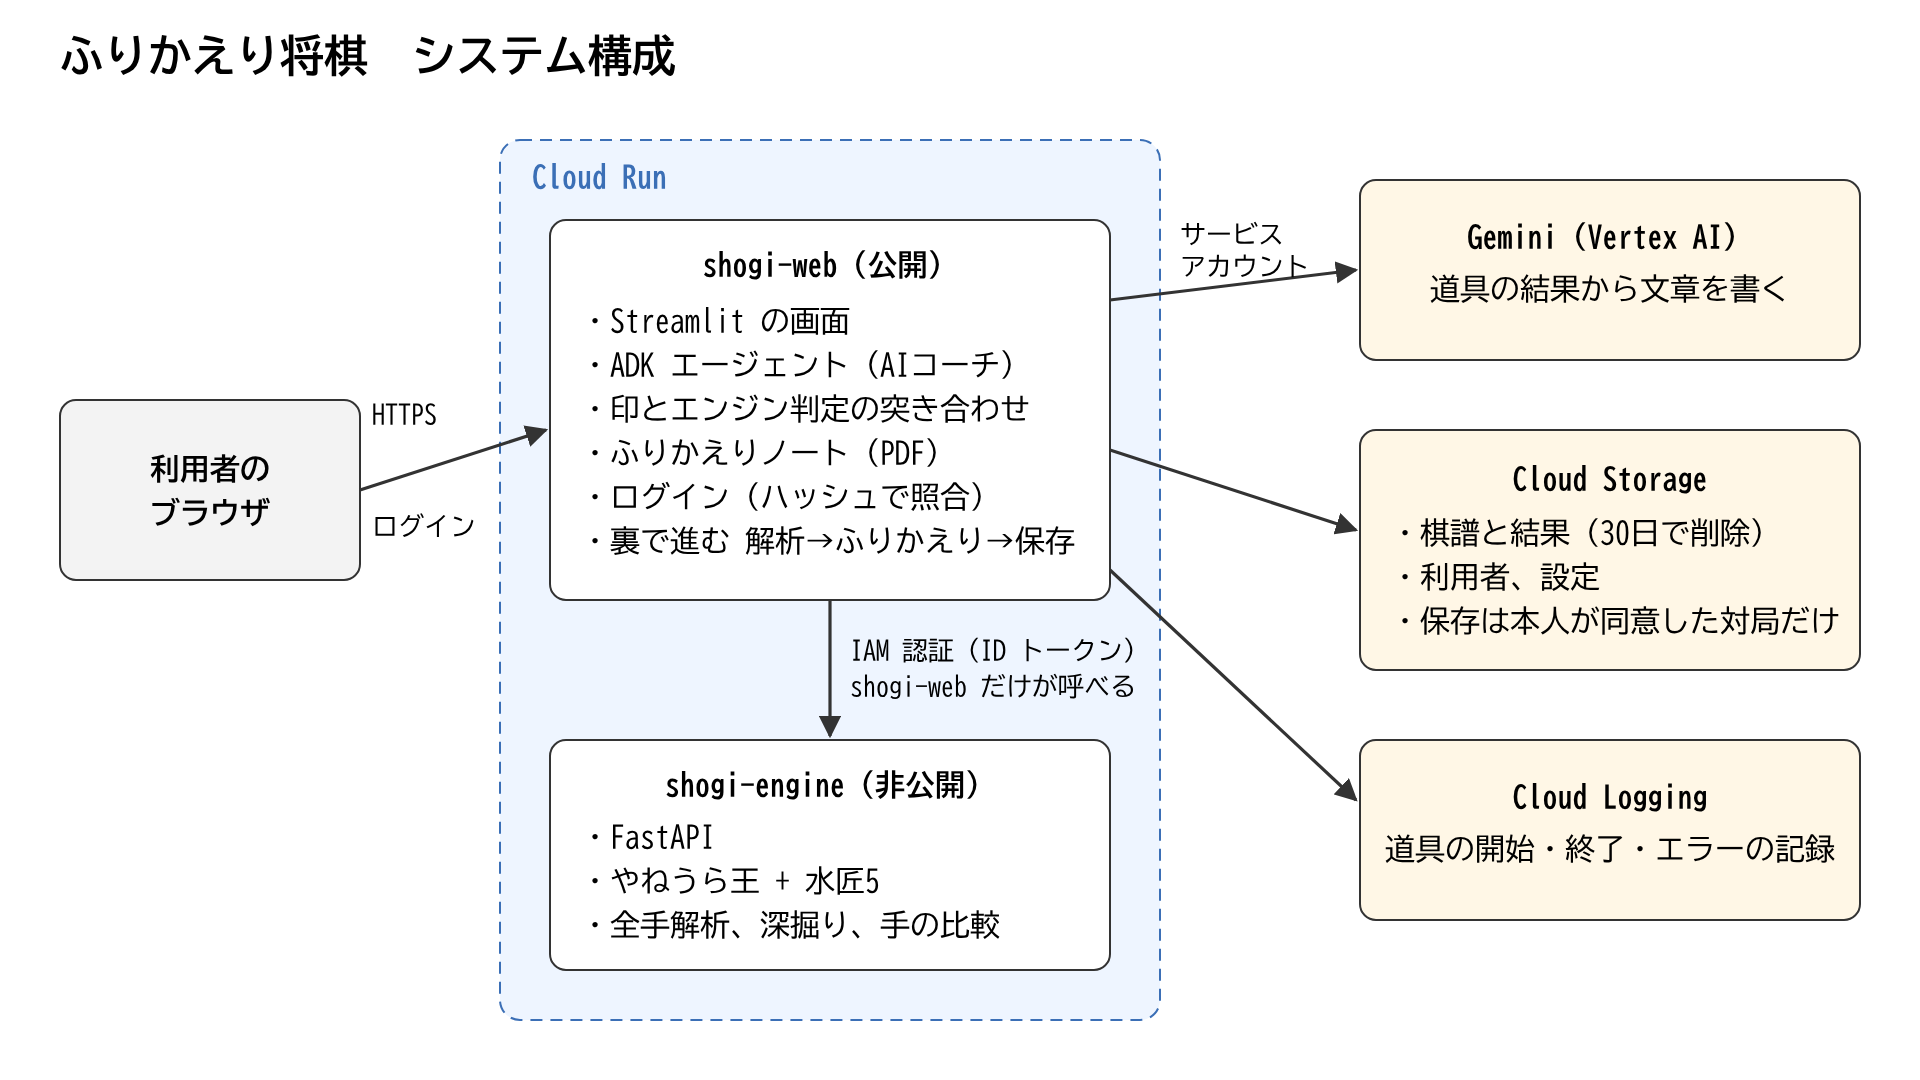
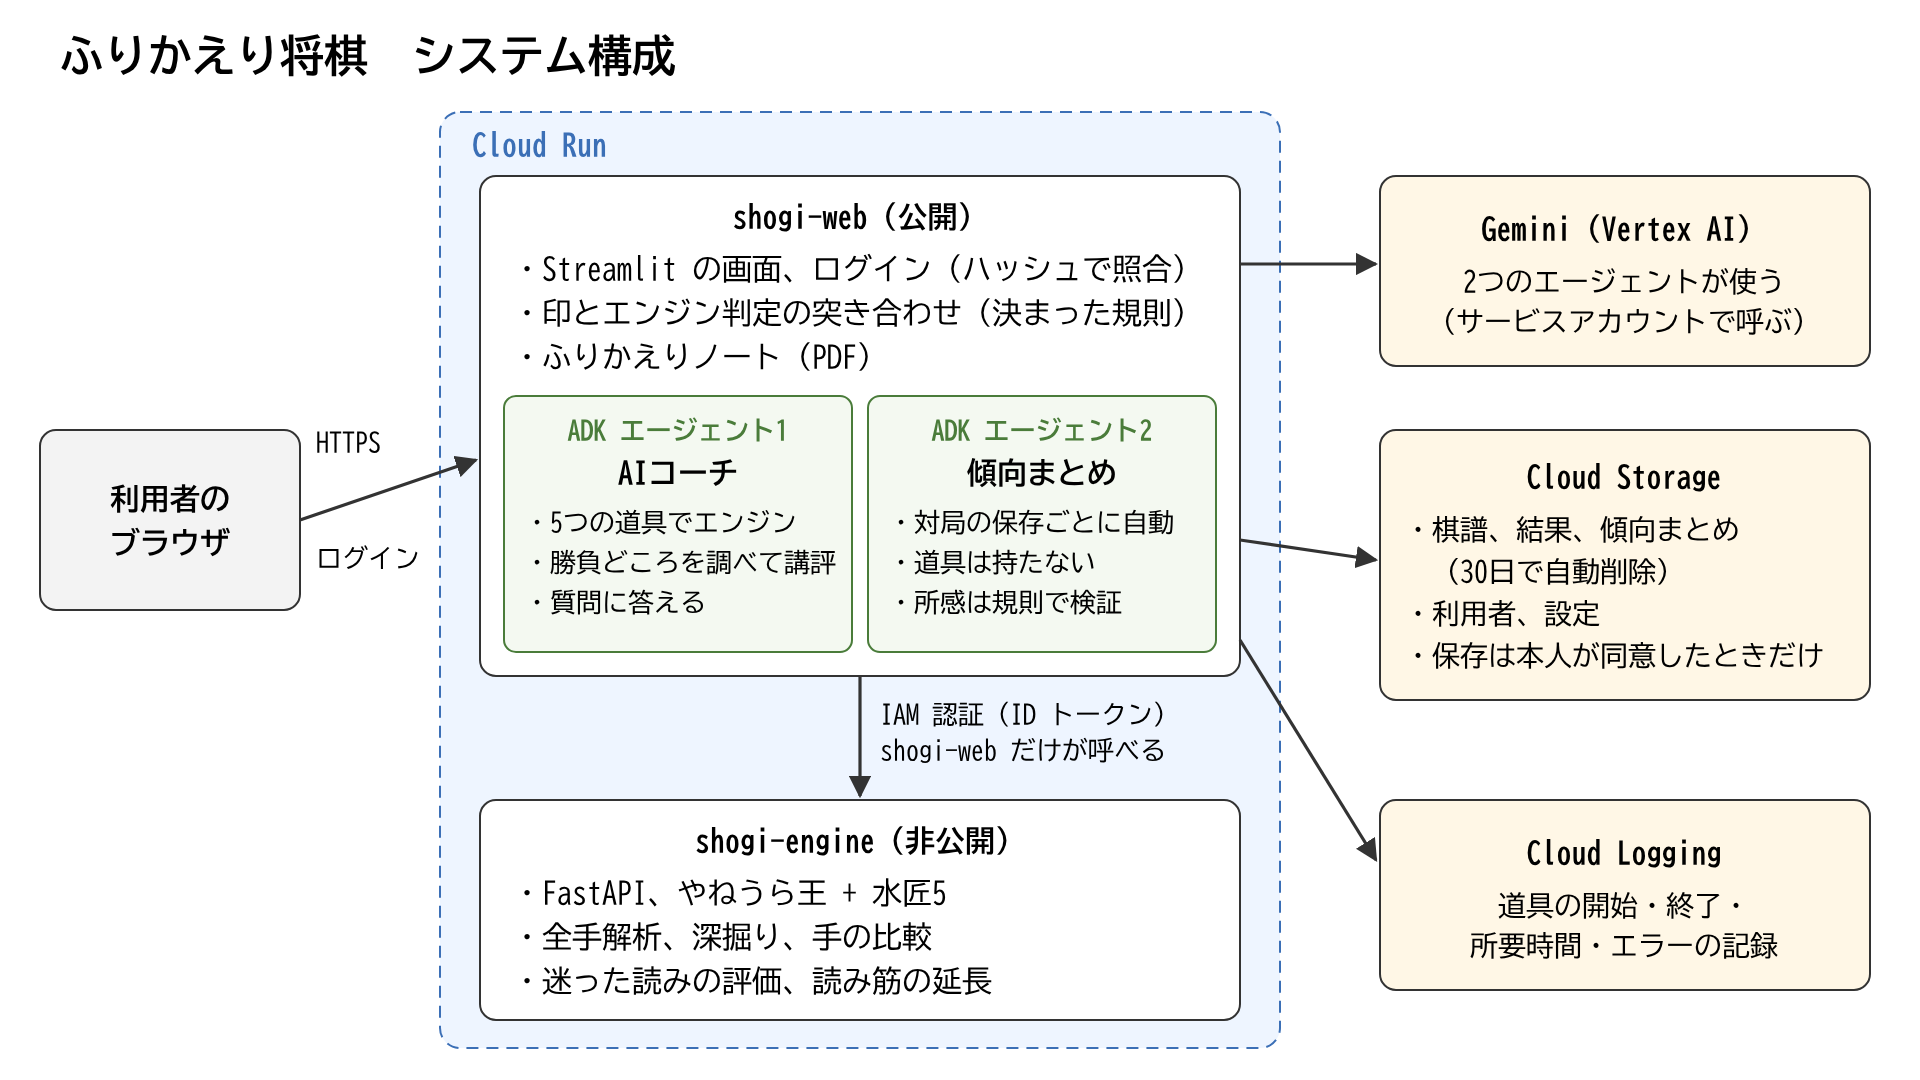
構成図と説明を、2つのエージェント（AIコーチと傾向まとめ）を含む今の構成に合わせる
傾向まとめのエージェント（保存のたびに自動、道具なし、所感は規則で検証）と、
エンジン側の迷った読みの評価・読み筋の延長を構成図に加えた。
アーキテクチャ説明（ダッシュボード用）も同じ内容に書き直した（793字）。

Claude-Session: https://claude.ai/code/session_01D4hAtyMCHpaFTxLnjaUy4s

diff --git a/docs/submission/ダッシュボード入力内容.md b/docs/submission/ダッシュボード入力内容.md
@@ -85,24 +85,25 @@
 ```
 **構成**
 
-- **Cloud Run「shogi-web」（公開）**: 画面（Streamlit）とAIコーチ（Agent Development Kit）を動かします。GeminiはVertex AIをサービスアカウントで呼ぶので、APIキーを持ちません
-- **Cloud Run「shogi-engine」（非公開）**: やねうら王＋水匠5をFastAPIで提供します。IAM認証が必須で、shogi-webのサービスアカウントだけが呼べます
-- **Cloud Storage**: 本人が同意した対局だけを利用者ごとに保存し、30日で自動削除します。パスワードは保存せず、scryptのハッシュだけを置きます
-- **Cloud Logging**: エージェントが呼んだ道具の開始・終了・所要時間・エラーを記録します
-- **Cloud Build**: 2つのサービスのイメージを作り、1本のスクリプトでデプロイします
+- **Cloud Run「shogi-web」（公開）**: 画面（Streamlit）と、ADKで作った2つのエージェントを動かします。GeminiはサービスアカウントでVertex AIから呼び、APIキーを持ちません
+- **AIコーチ（エージェント1）**: 5つの道具でエンジンを呼び、勝負どころを調べてから講評を書き、質問に答えます
+- **傾向まとめ（エージェント2）**: 対局を保存するたびに、複数対局の集計と局面例から所感を書きます。道具は持たせません
+- **Cloud Run「shogi-engine」（非公開）**: やねうら王と水匠5をFastAPIで提供し、全手解析・深掘り・手の比較・迷った読みの評価を受け持ちます。IAM認証で、shogi-webだけが呼べます
+- **Cloud Storage**: 同意した対局と傾向まとめを利用者ごとに保存し、30日で自動削除します。パスワードはscryptのハッシュだけを置きます
+- **Cloud Logging / Cloud Build**: 道具の呼び出しを記録し、2つのサービスを1本のスクリプトでデプロイします
 
 **設計上の工夫**
 
-- **数値はエンジン、言葉はGemini**: 評価値を勝率に直し、指した側の勝率が20%下がれば悪手、10%なら疑問手と規則で判定します。AIが決めるのは、調べる局面、使う道具、言葉づかいです
-- **道具は許可リストで固定**: 全手の形勢、印とのずれ、過去の傾向、局面の深掘り（6局面まで）、手の比較（10回まで）の5つだけです。Web検索は持たせていません
-- **本人の入力はデータとして扱う**: コメントを命令として扱わないよう指示し、対局者名はモデルに送りません
-- **止まらない**: AIの呼び出しが失敗しても、エンジンの結果とずれの表は表示します
-- **試験**: 突き合わせ・集計・ノート・棋譜の読み込みは画面から切り離した関数にし、GitHub Actionsで自動試験を回しています
+- **数値はエンジン、言葉はGemini**: 勝率が20%下がれば悪手、10%なら疑問手と規則で判定し、AIは数値を作りません
+- **AIの出力を検証する**: 傾向まとめの所感は、記録に無い数字を含む行を捨ててから載せます
+- **道具は許可リストで固定**: 深掘りは6局面、比較は10回まで。Web検索は持たせていません
+- **本人の入力はデータとして扱う**: コメントを命令として扱わず、対局者名はモデルに送りません
+- **止まらない**: AIが失敗しても、エンジンの結果とずれの表、記録だけの傾向まとめは表示します
 ```
 
 ### アーキテクチャ図
 
-`docs/submission/images/architecture.png`
+`docs/submission/images/architecture.png`（2026-10-14 更新。AIコーチと傾向まとめの2つのエージェントを描いた版。元の図は `docs/submission/architecture.svg`）
 
 ### Zenn記事URL（オプション）
 
